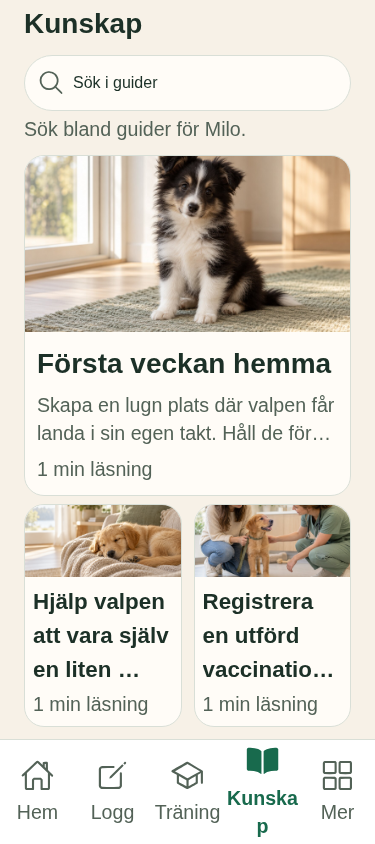
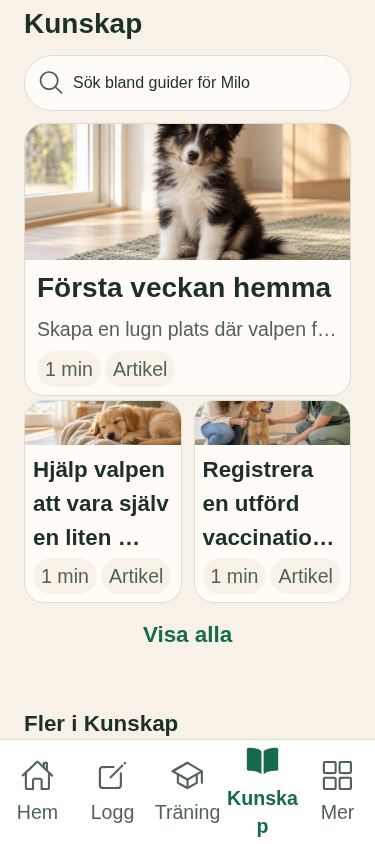
feat: compact knowledge guide discovery UI

diff --git a/src/features/knowledge/KnowledgeScreen.tsx b/src/features/knowledge/KnowledgeScreen.tsx
@@ -118,8 +118,11 @@ export function KnowledgeScreen({
       {image ? <Image source={image} style={featured ? styles.featuredImage : styles.smallImage} resizeMode="cover" accessibilityElementsHidden importantForAccessibility="no-hide-descendants" /> : null}
       <View style={featured ? styles.cardCopy : styles.smallCardCopy}>
         <Text style={featured ? styles.guideTitle : styles.smallGuideTitle} numberOfLines={featured ? undefined : 3}>{item.title}</Text>
-        {featured ? <Text style={styles.sourceText} numberOfLines={2}>{getGuidePreviewText(item.body)}</Text> : null}
-        <Text style={styles.readTime}>{readingMinutes(item.body)} min läsning</Text>
+        {featured ? <Text style={styles.sourceText} numberOfLines={1}>{getGuidePreviewText(item.body)}</Text> : null}
+        <View style={styles.metadataRow}>
+          <Text style={styles.metadataPill}>{readingMinutes(item.body)} min</Text>
+          <Text style={styles.metadataPill}>{item.contentType === 'guide' ? 'Guide' : 'Artikel'}</Text>
+        </View>
       </View>
     </MotionPressable>;
   }
@@ -145,7 +148,7 @@ export function KnowledgeScreen({
             accessibilityHint={`Sök bland guider för ${dogLabel}.`}
             value={searchQuery}
             onChangeText={(value) => setGuideViewState((current) => ({ ...current, scopeKey: searchScopeKey, value }))}
-            placeholder="Sök i guider"
+            placeholder={`Sök bland guider för ${dogLabel}`}
             returnKeyType="search"
             style={styles.searchInput}
           />
@@ -153,7 +156,6 @@ export function KnowledgeScreen({
             {iconsLoaded ? <Ionicons name="close-circle" size={tokens.size.iconMd} color={tokens.colors.textSecondary} accessibilityElementsHidden importantForAccessibility="no-hide-descendants" /> : <Text style={styles.clearSearchText}>Rensa</Text>}
           </MotionPressable> : null}
         </View>
-        <Text style={styles.searchHelp}>Sök bland guider för {dogLabel}.</Text>
       </View> : null}
 
       {reviewEnabled && showGuideScreen ? <Text style={styles.reviewNotice}>Tillfälligt exempel – innehållet är inte sakgranskat.</Text> : null}
@@ -216,12 +218,12 @@ export function KnowledgeScreen({
       {tab === 'För dig' && !selectedItem ? <View style={styles.shortcuts}>
         <SectionHeader title="Fler i Kunskap" />
         <View style={styles.categoryLinks}>
-          <Card onPress={() => changeTab('Checklistor')} accessibilityLabel="Öppna Checklistor">
-            <View style={styles.categoryLink}><IconChip category="training" /><View style={styles.categoryCopy}><Text style={styles.guideTitle}>Checklistor</Text><Text style={styles.sourceText}>För valpens olika faser</Text></View></View>
-          </Card>
-          <Card onPress={() => changeTab('FAQ')} accessibilityLabel="Öppna Vanliga frågor">
-            <View style={styles.categoryLink}><IconChip category="sleep" /><View style={styles.categoryCopy}><Text style={styles.guideTitle}>Vanliga frågor</Text><Text style={styles.sourceText}>Svar efter var ni är just nu</Text></View></View>
-          </Card>
+          <View style={styles.categoryCard}><Card onPress={() => changeTab('Checklistor')} accessibilityLabel="Öppna Checklistor">
+            <View style={styles.categoryLink}><IconChip category="training" /><Text style={styles.categoryTitle}>Checklistor</Text></View>
+          </Card></View>
+          <View style={styles.categoryCard}><Card onPress={() => changeTab('FAQ')} accessibilityLabel="Öppna Vanliga frågor">
+            <View style={styles.categoryLink}><IconChip category="sleep" /><Text style={styles.categoryTitle}>Vanliga frågor</Text></View>
+          </Card></View>
         </View>
       </View> : null}
 
@@ -245,24 +247,26 @@ const styles = StyleSheet.create({
   searchInput: { flex: 1, minWidth: 0, minHeight: tokens.size.touchMin, ...tokens.typography.body, color: tokens.colors.textPrimary, paddingVertical: 0 },
   clearSearch: { width: tokens.size.touchMin, minHeight: tokens.size.touchMin, alignItems: 'center', justifyContent: 'center' },
   clearSearchText: { ...tokens.typography.caption, color: tokens.colors.textSecondary },
-  searchHelp: { ...tokens.typography.caption, color: tokens.colors.textSecondary },
   searchEmpty: { gap: tokens.spacing.xs },
   searchCount: { ...tokens.typography.caption, color: tokens.colors.textSecondary },
   pageTitle: { ...tokens.typography.heading, color: tokens.colors.textPrimary },
   reviewNotice: { ...tokens.typography.caption, color: tokens.colors.warning, backgroundColor: tokens.colors.warningSurface, borderRadius: tokens.radius.md, padding: tokens.spacing.sm },
   shortcuts: { gap: tokens.spacing.xs, marginTop: tokens.spacing.sm },
-  categoryLinks: { gap: tokens.spacing.sm },
-  categoryLink: { flexDirection: 'row', alignItems: 'center', gap: tokens.spacing.md },
+  categoryLinks: { flexDirection: 'row', gap: tokens.spacing.sm },
+  categoryCard: { flex: 1, minWidth: 0 },
+  categoryLink: { flexDirection: 'column', alignItems: 'center', gap: tokens.spacing.xs },
+  categoryTitle: { alignSelf: 'stretch', textAlign: 'center', ...tokens.typography.label, color: tokens.colors.textPrimary },
   categoryCopy: { flex: 1, minWidth: 0, paddingVertical: tokens.spacing.sm, gap: tokens.spacing.xs },
   featured: { backgroundColor: tokens.colors.home.card, borderWidth: tokens.size.stroke, borderColor: tokens.colors.border, borderRadius: tokens.radius.lg, overflow: 'hidden' },
-  featuredImage: { width: '100%', height: 176 },
-  cardCopy: { padding: tokens.spacing.md, gap: tokens.spacing.sm },
+  featuredImage: { width: '100%', height: 136 },
+  cardCopy: { paddingHorizontal: tokens.spacing.md, paddingVertical: tokens.spacing.sm, gap: tokens.spacing.sm },
   smallCardCopy: { flex: 1, padding: tokens.spacing.sm, gap: tokens.spacing.xs },
-  readTime: { ...tokens.typography.caption, color: tokens.colors.textSecondary },
+  metadataRow: { flexDirection: 'row', flexWrap: 'wrap', gap: tokens.spacing.xs },
+  metadataPill: { ...tokens.typography.caption, color: tokens.colors.textSecondary, backgroundColor: tokens.colors.background, borderRadius: tokens.radius.full, paddingHorizontal: tokens.spacing.sm, paddingVertical: tokens.spacing.xs },
   articleGrid: { flexDirection: 'row', flexWrap: 'wrap', gap: tokens.spacing.md },
   smallCard: { flexGrow: 1, flexBasis: '45%', backgroundColor: tokens.colors.home.card, borderWidth: tokens.size.stroke, borderColor: tokens.colors.border, borderRadius: tokens.radius.lg, overflow: 'hidden' },
-  smallImage: { width: '100%', height: 72 },
-  guideList: { gap: tokens.spacing.sm },
+  smallImage: { width: '100%', height: 44 },
+  guideList: { gap: tokens.spacing.xs },
   guideTitle: { ...tokens.typography.heading, color: tokens.colors.textPrimary },
   smallGuideTitle: { ...tokens.typography.label, color: tokens.colors.textPrimary },
   articleCard: { alignSelf: 'stretch', borderRadius: tokens.radius.lg, borderWidth: tokens.size.stroke, borderColor: tokens.colors.border, backgroundColor: tokens.colors.surface, padding: tokens.layout.cardPadding },

diff --git a/docs/design/evidence/flow-knowledge-01/VERIFICATION.md b/docs/design/evidence/flow-knowledge-01/VERIFICATION.md
@@ -1,7 +1,7 @@
 # FLOW-KNOWLEDGE-01 — verifiering av plan v3
 
 Datum: 2026-10-22
-Status: **Avgränsad lokal UI- och beteendeverifiering godkänd; panel 7 är fortsatt öppen.** Detta underlag visar färska public- och review-renderingar av Kunskapens riktiga React Native-komponenter och syntetiska testdata. Det är inte en full panelacceptans eller verifiering av produktionsdata.
+Status: **Avgränsad lokal UI- och beteendeverifiering godkänd; panel 7 är fortsatt öppen.** Efter kompakteringen 2026-10-22 ersattes de tidigare captures med nya public- och review-renderingar av Kunskapens riktiga React Native-komponenter och syntetiska testdata. Det är inte en full panelacceptans eller verifiering av produktionsdata.
 
 ## Fixture och metod
 
@@ -50,23 +50,23 @@ Playwright-resultat: **public 15/15, review 14/14, `pageErrors=0`**. Kontrollern
 3. **NOT TESTABLE.** Ingen radering visas. Checklistecustom-delete och dess bekräftelseflöde har inte visuellt renderats här.
 4. **Ej tillämpligt.** Ändringen lägger inte till Hemmets dagliga aktivitetsrader eller rutinåtgärder.
 5. **NOT TESTABLE för native safe area.** De lokala React Native Web-skärmbilderna visar avstånd och fria marginaler, men safe-area-shimmen gav noll insets och inget iOS-statusfält simulerades.
-6. **Ja, med avgränsning.** Färg, typografi, radie och avstånd använder befintliga tokens och delade komponenter där de finns. Bildytorna har lokala mått 176 pt/72 pt för kortens crop; inga delade designtokens ändrades.
+6. **Ja, med avgränsning.** Färg, typografi, radie och avstånd använder befintliga tokens och delade komponenter där de finns. De nya kortbilderna är 136 pt/44 pt. Inga delade designtokens ändrades.
 7. **Ja i fångade vyer.** Checklistans redaktionella glyphs använder en uttrycklig Ionicons-karta och neutral fallback. Ikonraderna syns i [review-detaljen](./review/checklist-review-detail-375.png); checklist-UI-testet validerar glyphnamn.
 8. **NOT TESTABLE för full färg-/kontrastmatch.** Varm grund, ljusa kortytor, grön aktiv Kunskap och lila FAQ-markör syns. Ingen numerisk kontrastmätning gjordes.
 9. **Ja för provade kontroller.** Guidekortens tillgängliga namn öppnar samma guide; FAQ och Checklistor öppnar sina destinationer. Sökfrågan och hundscope verifierades i browserresan.
 10. **Ja för fångade tillstånd.** Inga guider märks rekommenderade. `Sparat` visas efter syntetisk preset-write/readback; osäkra eller misslyckade sparlägen renderades inte i browser-fixturen.
 11. **Ja.** Public-läget saknar review-banner. Review-lägets märkning säger att innehållet inte är sakgranskat och syns i review-capture.
-12. **Ja efter copyjustering.** Hjälpraden säger `Sök bland guider för {hund}` och beskriver sökområdet utan cache-/laddningsterminologi.
+12. **Ja efter copyjustering.** Den aktiva hundens namn finns direkt i sökfältets tomma placeholder, tillgängliga namn och hint: `Sök bland guider för {hund}`. En separat hjälprad är borttagen.
 13. **Delvis.** Guidekortens bild, rubrik, förhandsvisning och lästid har tydlig hierarki. Metadata och bildandel är inte pixelmässigt lika panelreferensen.
 14. **NOT TESTABLE för samtliga planerade sparlägen.** Loading, empty, error, noll träffar, FAQ-tomtillstånd, public checklistegräns och review preset-save har renderats. Checklistans partial/failed/unknown-vyer ingår inte i capture-serien.
 15. **NOT TESTABLE fullt ut.** Webbläsarroll/-namn användes i klickkontroller och 140 %-proxy scrollar utan horisontell overflow. Fysisk target-storlek, VoiceOver/TalkBack, native Dynamic Type och reducerad rörelse verifierades inte. I 140 %-bilden bryts/klipps `Kunskap` i bottenmenyn visuellt; detta är en webbläsarproxyobservation, inte en native-Dynamic-Type-bedömning. Se [public 140 %](./public/knowledge-375x844-text-140.png) och [review 140 %](./review/knowledge-375x844-text-140.png).
 16. **Nej för full matchning mot panel 7.** Jämförelsen är sida vid sida mot panelutsnittet, men avvikelser kvarstår:
-    - **Komposition: Nej.** Den nuvarande vyn saknar filterchips och rekommendationsrubrik enligt planens datakontrakt. På 375×667 är de mindre korten delvis under bottenmenyn; FAQ/Checklistor nås genom scroll.
+    - **Komposition: Nej.** Den nuvarande vyn saknar filterchips och rekommendationsrubrik enligt planens datakontrakt. I den nya 375×667-rendern är sök, huvudkort, två mindre kort och hela `Visa alla`-tryckytan synliga; uppmätt fri marginal till bottenmenyn är 21 px. FAQ/Checklistor nås genom scroll. I 375×844 syns även de två kompakta genvägarna före bottenmenyn.
     - **Färger: NOT TESTABLE för full färgrollmatch.** Varm grund och ljusa kortytor syns, men ingen kontrastmätning eller full färgrolljämförelse är gjord.
     - **Typografi: NOT TESTABLE för pixelmatch.** Befintliga texttokens används; storlek/hierarki har inte godkänts mot referensen.
     - **Komponentformer: Ja, avgränsat.** Sökfält och rundade kort följer komponentfamiljen i referensen.
     - **Bildspråk: Ja, avgränsat.** Relevanta dekorativa hundfoton används; de är inte användarens hund eller verifierade händelser.
-    - **Innehållstäthet: Nej.** Den större bildytan skjuter sekundära kort och destinationslänkar nedåt jämfört med referensens 375×667-komposition.
+    - **Innehållstäthet: Delvis.** Den kortare herobilden och enradiga förhandsvisningen gör guider och genvägar tidigare synliga. Filterchips/rekommendationsyta saknas fortsatt av dataskäl; FAQ/Checklistor ligger under första vyn vid 375×667.
 
     Därför hävdas inte full visuell likhet eller panel 7-acceptans. Chips/rekommendation är uteslutna av planens uttryckliga beslut eftersom datan saknar taxonomi/rangordning; den motiveringen gör inte skärmen visuellt lik panelen.
 17. **NOT TESTABLE för alla returvägar.** Aktiv Kunskap visas i bottenmenyn; guide/back, FAQ och checklistdestination provades. Inkommande returvägar till Träning/Utveckling verifierades inte i denna fixture.
@@ -79,3 +79,15 @@ Playwright-resultat: **public 15/15, review 14/14, `pageErrors=0`**. Kontrollern
 - **Produktionsdata:** **NOT TESTABLE.** Ingen live Supabase-läsning/skrivning, RLS, publicerad guidekatalog, releasebundle eller fysisk iOS/Android-enhet användes.
 
 Ingen fullständig panelacceptans hävdas. Evidensen avser den implementerade arbetsversionen och lokala fixturekörningar.
+
+## Fresh UI-density pass — 2026-10-22
+
+`KnowledgeScreen` was tightened after the initial evidence review: the current dog's name moved into the search placeholder instead of a repeated helper line; the featured guide image changed from 176 to 136 pt with a one-line excerpt; small guide images changed from 72 to 44 pt; featured/secondary metadata now uses compact read-time and truthful `Artikel`/`Guide` pills. FAQ and Checklistor are separate 44 pt-or-larger icon-and-label actions in one compact row. This preserves the approved v3 rule against fabricated topics and recommendation claims.
+
+Fresh local checks on this snapshot: focused tests **3/3 files passed** (`knowledge-search-screen`, `checklist-ui`, `knowledge-training-empty-feedback`); full Node suite **69/69 passed**, app and edge TypeScript passed, and ESLint passed. The content release guard passed for public; direct Expo iOS export bundled **1,579 modules** to `/tmp/tassla-flow-knowledge-ios`. The `pnpm check` wrapper itself could not reach npm because the sandbox denied registry requests (EPERM); its four local scripts were run directly and passed. Fresh public render **15/15** and review render **14/14**, `pageErrors=0`. The browser interaction verifier covered 375×844, 430×844, 375×667 and 140% CSS text proxy; all checked routes had no horizontal overflow. Public FAQ empty-state and zero review checklist reads passed. Review FAQ, checklist detail/icon rows, and synthetic preset save/readback passed. Guide detail opens the exact fixture ID; search survives guide/back and clears when dog scope changes. Captures above were overwritten from the current source.
+
+The compact layout brings the two secondary icon-and-label cards above the fixed tab bar at 375×844. At 375×667 those destinations remain below the guide list and are reached by normal vertical scroll. The 140% CSS proxy has no horizontal overflow, but text in the bottom-nav `Kunskap` label wraps; this is browser proxy evidence only, not a native Dynamic Type result.
+
+Remaining §14 gaps remain explicit: no topic taxonomy or justified ranking exists for chips/recommendation; checklist delete and failed/partial/unknown mutation states have not been browser-captured in this visual pass; full color-contrast/pixel-match, native safe area/physical target/VoiceOver/Dynamic Type/reduced-motion, incoming external Training/Development return routes, live production content, Supabase, and RLS were not verified. The panel remains open and partial until the plan's required acceptance work is resolved; no production-data or full visual-match claim is made.
+
+Independent QA returned PASS after checking the corrected source/evidence dimensions (136/44 pt), current focused/full test counts, report/queue consistency, saved captures, and browser results. QA could not rerun the browser verifier because Chromium launch failed under its sandbox socket restriction; the saved captures and recorded 15/15 public, 14/14 review runs were inspected instead. Frozen Reviewer returned PASS on the final snapshot after asking for QA status to agree across records and for the image-register note to distinguish captured React Native Web crops from still-unverified native/full-app behavior. No product-code blocker was found.

diff --git a/assets/images/README.md b/assets/images/README.md
@@ -62,12 +62,12 @@ Fyra fotorealistiska, dekorativa bilder genererades 2026-10-21 med ChatGPT `imag
 
 | Appfil | Motiv-/promptspårning | Källa → appasset | Roll och crop | Tillgänglighet / avsedd återanvändning |
 |---|---|---|---|---|
-| `knowledge-featured-puppy-lagotto-forest.jpg` | Fotorealistisk lagotto på nordisk skogsstig, mjukt dagsljus, luftig grön/beige miljö | `exec-c0aaccd7-8d52-4944-a650-6160064fcd9f.png`, 1536×1024, 2,604,029 B → 1536×1024 JPEG, 311,460 B | Kunskaps hero, befintlig höjd 200 pt med `cover`; naturligt horisontellt utsnitt | Dekorativ, VoiceOver/TalkBack ignorerar bilden. Samma guide behåller samma bild i HomeCarousel. |
-| `knowledge-card-puppy-sheltie-window.jpg` | Fotorealistisk sheltievalp vid solbelyst fönster, varm skandinavisk hemmiljö | `exec-5a2a21b3-d1a8-4997-af40-852b15cfeba8.png`, 1536×1024, 2,265,793 B → 1536×1024 JPEG, 235,973 B | Kunskapens mindre bildkort, nuvarande 132 pt bildhöjd och responsiv bredd med `cover` | Dekorativ, VoiceOver/TalkBack ignorerar bilden. Stabil guide-ID-/versionsmappning. |
-| `knowledge-card-puppy-cocker-coast.jpg` | Fotorealistisk brun cocker spaniel på nordisk kuststig, hav och ljung i bakgrunden | `exec-856c7906-2f8b-40a6-b411-5c2a9f3a2f58.png`, 1536×1024, 2,683,164 B → 1536×1024 JPEG, 316,271 B | Kunskapens mindre bildkort, nuvarande 132 pt bildhöjd och responsiv bredd med `cover` | Dekorativ, VoiceOver/TalkBack ignorerar bilden. Stabil guide-ID-/versionsmappning. |
+| `knowledge-featured-puppy-lagotto-forest.jpg` | Fotorealistisk lagotto på nordisk skogsstig, mjukt dagsljus, luftig grön/beige miljö | `exec-c0aaccd7-8d52-4944-a650-6160064fcd9f.png`, 1536×1024, 2,604,029 B → 1536×1024 JPEG, 311,460 B | Kunskaps hero, aktuell höjd 136 pt med `cover`; naturligt horisontellt utsnitt | Dekorativ, VoiceOver/TalkBack ignorerar bilden. Samma guide behåller samma bild i HomeCarousel. |
+| `knowledge-card-puppy-sheltie-window.jpg` | Fotorealistisk sheltievalp vid solbelyst fönster, varm skandinavisk hemmiljö | `exec-5a2a21b3-d1a8-4997-af40-852b15cfeba8.png`, 1536×1024, 2,265,793 B → 1536×1024 JPEG, 235,973 B | Kunskapens mindre bildkort, 44 pt bildhöjd och responsiv bredd med `cover` | Dekorativ, VoiceOver/TalkBack ignorerar bilden. Stabil guide-ID-/versionsmappning. |
+| `knowledge-card-puppy-cocker-coast.jpg` | Fotorealistisk brun cocker spaniel på nordisk kuststig, hav och ljung i bakgrunden | `exec-856c7906-2f8b-40a6-b411-5c2a9f3a2f58.png`, 1536×1024, 2,683,164 B → 1536×1024 JPEG, 316,271 B | Kunskapens mindre bildkort, 44 pt bildhöjd och responsiv bredd med `cover` | Dekorativ, VoiceOver/TalkBack ignorerar bilden. Stabil guide-ID-/versionsmappning. |
 | `training-next-step-puppy-corgi-home.jpg` | Nära fotorealistiskt corgiporträtt på neutral träningsmatta i lugnt hem; tydliga ögon och öron i litet utsnitt | `exec-302611d4-5547-491a-983a-f7d8ac5bb58c.png`, 1254×1254, 2,318,108 B → 1254×1254 JPEG, 242,738 B | Träningens nästa-övning-miniatyr 88×88 pt (`tokens.size.trainingImage`) och HomeCarousel-bilden för samma nästa träningssteg; `cover` | Dekorativ, VoiceOver/TalkBack ignorerar bilden. Delas endast mellan samma träningssteg i Träning och dess HomeCarousel-genväg. |
 
-Alla JPEG-filer konverterades från angivna original med `magick <source.png> -strip -quality 86 <asset.jpg>`. Samlad storlek är 1,106,442 B; varje fil understiger 350 KB och summan 1.4 MB. Metadata tas bort. Bildkällorna är AI-genererade och ska inte märkas som personliga hundfoton, utbildningsbevis eller hälsopåståenden. Motiven är bedömda separat; faktisk React Native `cover`-rendering i appen kvarstår **NOT TESTABLE** tills fungerande renderer finns.
+Alla JPEG-filer konverterades från angivna original med `magick <source.png> -strip -quality 86 <asset.jpg>`. Samlad storlek är 1,106,442 B; varje fil understiger 350 KB och summan 1.4 MB. Metadata tas bort. Bildkällorna är AI-genererade och ska inte märkas som personliga hundfoton, utbildningsbevis eller hälsopåståenden. `KnowledgeScreen` har nu fångats i lokal React Native Web med nuvarande `cover`-crop; native iOS/Android-rendering och full appbild-/retinaprov är fortsatt **NOT TESTABLE**.
 
 ## FLOW-KNOWLEDGE-01: tre nya dekorativa guidefoton
 
@@ -76,7 +76,7 @@ Skapade 2026-10-22 med ChatGPT `image_gen`. Inga uppladdade referensbilder eller
 ### `knowledge-guide-handling.jpg`
 
 - Källa: `/workspace/generated_images/exec-f11935e6-b74d-4db1-a7a9-54cf05ffdf33.png`, 1536×1024 px, 2,308,501 B.
-- Appasset: 1536×1024 px, 240,918 B; beskärning centreras med `cover`. I hero på 430 pt beskärs över-/underkant i 382×200 pt-fönster; i mindre kort beskärs sidorna i 185×132 pt-fönster. Hunden och den frivilliga, lugna kontakten förblir synliga i båda beskärningsproven.
+- Appasset: 1536×1024 px, 240,918 B; beskärning centreras med `cover`. Nuvarande `KnowledgeScreen` visar bilden i ett 136 pt högt hero eller i en 44 pt hög mindre kortbild; bredden följer den responsiva kortlayouten.
 - Roll: guide om varsam hantering hemma.
 - VoiceOver/TalkBack: bilden är dekorativ och döljs med `accessibilityElementsHidden`; kortets namn kommer från guideversionens titel.
 - Exakt genereringsprompt:
@@ -86,7 +86,7 @@ Skapade 2026-10-22 med ChatGPT `image_gen`. Inga uppladdade referensbilder eller
 ### `knowledge-guide-weight.jpg`
 
 - Källa: `/workspace/generated_images/exec-13175f6d-a9b6-4e15-99aa-4544de00b772.png`, 1536×1024 px, 2,169,977 B.
-- Appasset: 1536×1024 px, 217,433 B; centered `cover` in the 382×200 pt hero and 185×132 pt small-card windows. All four paws and the full relaxed stance remain visible in both 430 pt crop previews.
+- Appasset: 1536×1024 px, 217,433 B; centered `cover` in the current 136 pt hero or 44 pt small-card image, with responsive card width.
 - Roll: guide about a dog's weight history. No scale or body-condition result is shown.
 - VoiceOver/TalkBack: the image is decorative and döljs with `accessibilityElementsHidden`; kortets namn kommer från guideversionens titel.
 - Exakt genereringsprompt:
@@ -96,7 +96,7 @@ Skapade 2026-10-22 med ChatGPT `image_gen`. Inga uppladdade referensbilder eller
 ### `knowledge-guide-vet.jpg`
 
 - Källa: `/workspace/generated_images/exec-4860066e-f395-4ba2-8808-d7cbe66d0ee1.png`, 1536×1024 px, 2,304,474 B.
-- Appasset: 1536×1024 px, 230,041 B; centered `cover` in the 382×200 pt hero and 185×132 pt small-card windows. The dog and calm greeting contact remain visible in both 430 pt crop previews.
+- Appasset: 1536×1024 px, 230,041 B; centered `cover` in the current 136 pt hero or 44 pt small-card image, with responsive card width.
 - Roll: guide about health records and veterinary contact. No examination or treatment is depicted.
 - VoiceOver/TalkBack: the image is decorative and döljs with `accessibilityElementsHidden`; kortets namn kommer från guideversionens titel.
 - Exakt genereringsprompt:

diff --git a/docs/tasks/dev/rapport.md b/docs/tasks/dev/rapport.md
@@ -1060,6 +1060,12 @@ Eriks återkoppling på panel 2 genomförd: mer avstånd mellan fasnamnen och kl
 
 Projektets isolerade React Native Web-harness och Chromium är nu tillgängliga; den tidigare `renderer saknas`-blockeringen är inaktuell. Verktygen installerades endast under `/tmp`. Public/review-render gav vardera 13/13: 360/375/430 px, 375×667, normal/140 %-CSS-textproxy, gråskala, Fler, kalenderns markör-/tom-/laddnings-/felläge, retry, föregående månad, spärrad framtidsdag och datumval/retur. Renderad dagruta var 44,56×44 px vid 360 px; scrollbottenmarginalen var 32 px vid 360×844 med Fler öppet. Skärmbilder/resultat finns i [FLOW-LOG-01-renderingen](../design/evidence/flow-log-01/render/).
 
+### FLOW-KNOWLEDGE-01 — Panel 7 kompakt UI-checkpoint, 2026-10-22
+
+Panel 7:s aktuella React Native-skärm har nu mindre featured-/sekundärbilder (136/44 pt), enradigt guideutdrag och läsminut + faktisk Artikel/Guide-typ i lugna metadatachips. Hundnamnet står i sökplaceholder och hjälpmedelsnamn i stället för en separat upprepande hjälprad. Checklista och FAQ är separata, tokenbaserade kort med tydliga ikoner och etiketter. Inga ämnesfilter, rekommendationsrankning, datamodell eller persistence hittas på. Vid 375×667 är hela `Visa alla`-ytan synlig; RN Web mätte 56 pt höjd och 21 px fri marginal till bottenmenyn. Vid 375×844 syns även båda genvägskorten.
+
+Verifiering: fokuserade kunskaps-/checklist-/tomtillståndstester 3/3 filer; hel Node-suite 69/69; app-TypeScript, edge-TypeScript och ESLint PASS. Public content release guard PASS och Expo iOS-export PASS med 1 579 moduler. Oberoende QA körde `pnpm check`: 69/69 tester samt TypeScript och ESLint PASS; QA:s Chromium-omkörning blockerades av sandboxens socketbegränsning och sparade captures/resultat granskades. RN Web: public 15/15, review 14/14, `pageErrors=0`; 375/430, 375×667 och 140 %-CSS-proxy har inget horisontellt overflow. Sök/guide/back/scope reset, FAQ, public checklist gate och syntetisk review-checklist/save verifierades. Oberoende QA PASS och frozen Reviewer PASS på slutlig korrigerad snapshot. Native Dynamic Type/VoiceOver/safe area, live Supabase/RLS och full skärmlikhet är **NOT TESTABLE**. Ämneschips/rekommendation saknar sakligt datastöd; checklist-delete samt failed/partial/unknown-vyer har inte browser-capture i denna slice. Panel 7 är stängd som partiell lokal UI-checkpoint; full §14-likhet hävdas inte. Färska captures och komplett §14 finns i [verifieringen](../design/evidence/flow-knowledge-01/VERIFICATION.md).
+
 Jämförelsen visar full Panel 5-lucka: `Översikt`-fliken saknas tills Panel 8/Insikter har en fungerande route. Den avtalade snabbvalsgruppen finns kvar för entrycksregistrering; ingen död flik lades till. §14 punkt 16–17 är därför `Nej` för full panel. Denna lokala render är implementerarkontroll, inte oberoende QA/Reviewer. Live RLS och native Dynamic Type/VoiceOver/safe area/reduced motion är fortsatt NOT TESTABLE.
 
 ### Ägarens synliga UI-korrigeringar — 2026-10-22

diff --git a/docs/tasks/dev/FLOW-KNOWLEDGE-01.md b/docs/tasks/dev/FLOW-KNOWLEDGE-01.md
@@ -1,0 +1,20 @@
+# FLOW-KNOWLEDGE-01 — Panel 7 checkpoint
+
+Plan: [`FLOW-KNOWLEDGE-01-ux-spec-v3.md`](../../plans/FLOW-KNOWLEDGE-01-ux-spec-v3.md). The plan has prior Architect APPROVE, Critic PROCEED and Security APPROVE. This resumed slice does not change its data, publication, checklist-write, or navigation contracts.
+
+## Owner direction and current slice
+
+Erik authorized Panel 7 to continue on 2026-10-22. The prior local guide/checklist flows and six explicit editorial-image mappings are already implemented. This continuation addresses the documented §14 composition and short-viewport density gaps, then refreshes public/review captures and verification. Search remains dog-scoped; content type labels derive only from each published item's `contentType`. No invented topic filters, ranking, recommendation, or persisted checklist-item icons.
+
+## Acceptance and boundaries
+
+- Keep one featured guide, two smaller guides, all-results search, exact guide/source navigation, and independent FAQ/checklist destinations.
+- At 375/430 pt, compact editorial imagery and remove redundant search helper copy so guide content is visible sooner. Keep the active dog's name in the search placeholder and accessible name/hint.
+- Keep the two secondary destinations separately reachable with comfortable touch targets and sufficient scroll clearance above the fixed tab bar.
+- Retain explicit article/guide identity, read time, relevant image assignments, review-only gates, checklist state recovery, and neutral fallback for owner-created items.
+- No schema, RPC, database, RLS, retention, publication, content, or account/dog-scope changes.
+- Native safe-area/accessibility behavior and live data/RLS remain separate evidence classes; do not infer them from RN Web.
+
+## Verification record
+
+Update `docs/design/evidence/flow-knowledge-01/VERIFICATION.md` after implementation with exact commands, render dimensions, §14 findings, screenshots, and remaining limitations. Run the focused tests and project checks already listed on the queue task. Do not claim full Panel 7 acceptance while the plan's required native/live and unresolved presentation items remain open.

diff --git a/docs/decisions/MASTER-LOG.md b/docs/decisions/MASTER-LOG.md
@@ -193,6 +193,10 @@ Detta stänger inte hela panel 4: Kommande, källnavigation/retur och full §14-
 
 Panel-4:s fyra filter, read-only Kommande, exakta historiska träningskällor och retur med bibehållet filter/scroll är lokalt implementerade på `2026-10-22-checklist-kommande-navigation`. Riktad syntetisk RN Web-kontroll PASS: public 10/10, review 19/19. Check-hook: 642 passerade, 1 skip av 643 testfall. Commit `25bde34` pushad till `origin/2026-10-22-checklist-kommande-navigation`. Full panelacceptans, oberoende A03-review och live RLS är fortfarande öppna; native accessibility är NOT TESTABLE.
 
+### FLOW-KNOWLEDGE-01 — Panel 7 lokal UI-checkpoint, 2026-10-22
+
+Kompakt guideyta (136/44 pt), hundnamn i sökfältet och två separata ikon-/textgenvägar till FAQ och Checklistor. Ingen taxonomi, rangordning, rekommendation eller ny datahantering har lagts till. Fokuserade tester 3/3, full check 69/69, public content guard och Expo iOS-export 1 579 moduler passerar. Sparade RN Web-kontroller: public 15/15, review 14/14, `pageErrors=0`; oberoende QA PASS och frozen Reviewer PASS. QA kunde inte starta om Chromium och granskade sparade captures/resultat i stället. Checkpointen är partiell: full §14-match, native accessibility/safe area, live data/RLS samt checklistans browser-delete/failure/unknown-vyer återstår. Se [verifiering](../design/evidence/flow-knowledge-01/VERIFICATION.md) och [rapport](../tasks/dev/rapport.md).
+
 Erik vill att Kunskapens checklistor delar mer av Hemmets ikon- och radgrammatik. Fortsatt beslut: harmonisera presentation och återkoppling där de passar, men bevara skillnaden mellan publicerade fasuppgifter/egna fas-punkter och ägarens återanvändbara återfallsrutiner. Kunskapens egna punkter saknar sparat ikonfält; beständigt val kräver separat datakontrakt och granskning. A03 ändrar inte Kunskap. Skärmens generella `Kontrollera den föregående ändringen`-status bevisar inte saknad tabell: ikonändringen kräver en ännu icke-applicerad validator-migration i den befintliga rutindatakällan, inte en ny tabell.
 
 
